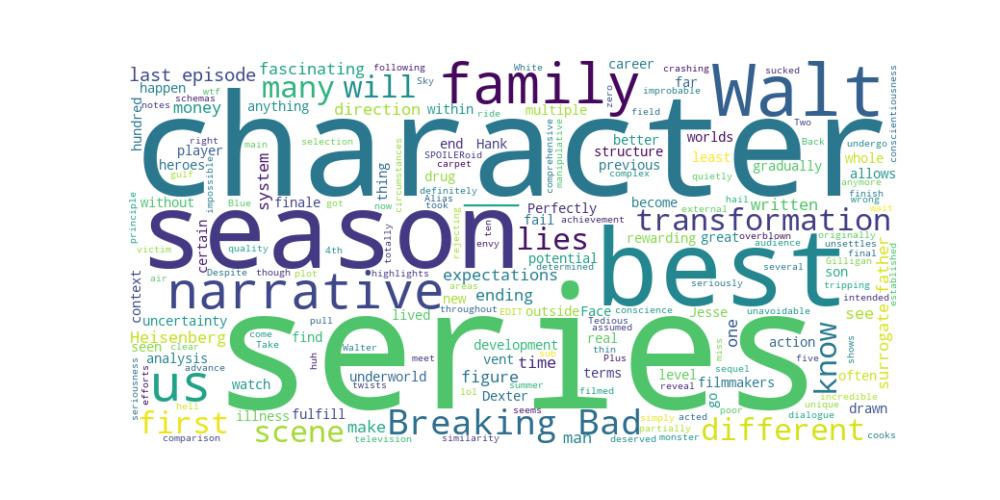
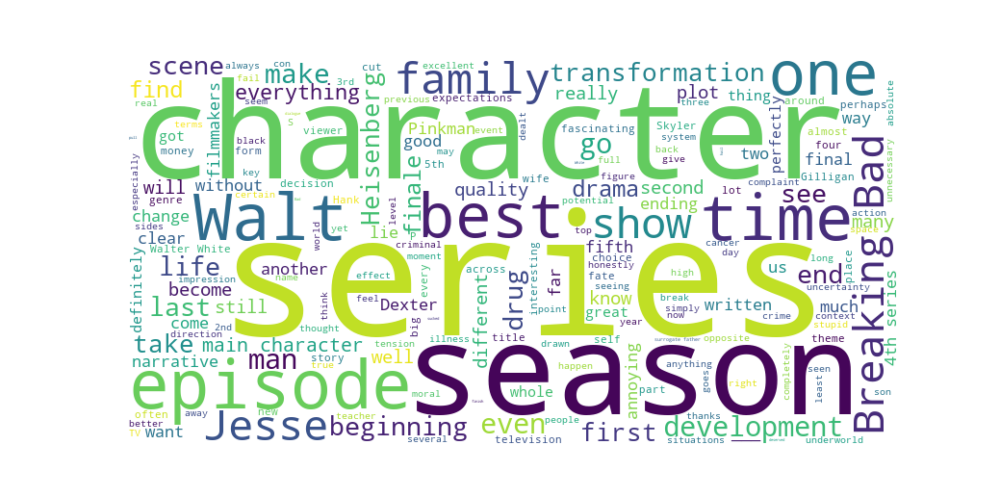
code review, change comments into eng

diff --git a/visualization.py b/visualization.py
@@ -8,9 +8,9 @@ import nltk
 nltk.download("stopwords")
 from nltk.corpus import stopwords
 
-
 def generate_wordcloud(words, filename="wordcloud.png"):
-    """ Vytvoří wordcloud z daného textu nebo seznamu slov """
+    """ Generates a word cloud from the given text or list of words """
+    print("Generating word cloud...")
     text = " ".join(words)
     wordcloud = WordCloud(width=800, height=400, background_color="white").generate(text)
 
@@ -20,65 +20,50 @@ def generate_wordcloud(words, filename="wordcloud.png"):
     plt.savefig(filename)
     plt.show()
 
-
-def display_sentiment_results(sentiment_results):
-    """ Zobrazí tabulku sentimentu recenzí """
-    df_sentiment = pd.DataFrame(sentiment_results, columns=["Review", "Sentiment", "Score"])
-    df_sentiment["Score"] = df_sentiment["Score"].round(2)
-
-    print("\n📊 Sentiment Analysis Table:\n")
-
-    try:
-        from tabulate import tabulate
-        print(tabulate(df_sentiment, headers="keys", tablefmt="github"))
-    except ImportError:
-        print(df_sentiment.to_string(index=False))
-
-
 def analyze_words(reviews):
-    """ Analyzuje slova v recenzích – nejčastější a nejdelší slova """
+    """ Analyzes words in reviews – most common and longest words """
+    print("Analyzing words in reviews...")
     text = " ".join(reviews).lower()
     words = [word.strip(string.punctuation) for word in text.split()]
 
-    # Odstranění stopwords
+    # Remove stopwords
     stop_words = set(stopwords.words("english"))
     words = [word for word in words if word and word not in stop_words]
 
-    # 30 nejčastějších slov
+    # 30 most common words
     most_common_words = [word for word, _ in Counter(words).most_common(30)]
 
-    # 30 nejdelších slov
+    # 30 longest words
     longest_words = sorted(set(words), key=len, reverse=True)[:30]
 
     return most_common_words, longest_words
 
-
-if __name__ == "__main__":
-    test_reviews = [
-        "This movie is absolutely fantastic! I loved every second of it.",
-        "It was an average experience. Nothing special, nothing terrible.",
-        "I really hated this movie. It was a complete waste of time."
-    ]
-
-    # Simulujeme analýzu sentimentu
-    test_sentiments = [
-        (test_reviews[0], "positive", 0.85),
-        (test_reviews[1], "neutral", 0.00),
-        (test_reviews[2], "negative", -0.75)
-    ]
-
-    # Generování wordcloudu pro recenze
-    generate_wordcloud(test_reviews, "test_wordcloud.png")
-
-    # Zobrazení tabulky sentimentu
-    display_sentiment_results(test_sentiments)
-
-    # Analýza nejčastějších a nejdelších slov
-    most_common, longest = analyze_words(test_reviews)
-
-    print("\n📌 30 nejpoužívanějších slov:\n", most_common)
-    print("\n📌 30 nejdelších slov:\n", longest)
-
-    # Generování wordcloudů pro nejčastější a nejdelší slova
-    generate_wordcloud(most_common, "most_common_words.png")
-    generate_wordcloud(longest, "longest_words.png")
+# if __name__ == "__main__":
+#     test_reviews = [
+#         "This movie is absolutely fantastic! I loved every second of it.",
+#         "It was an average experience. Nothing special, nothing terrible.",
+#         "I really hated this movie. It was a complete waste of time."
+#     ]
+#
+#     # Simulate sentiment analysis
+#     test_sentiments = [
+#         (test_reviews[0], "positive", 0.85),
+#         (test_reviews[1], "neutral", 0.00),
+#         (test_reviews[2], "negative", -0.75)
+#     ]
+#
+#     # Generate word cloud for reviews
+#     generate_wordcloud(test_reviews, "test_wordcloud.png")
+#
+#     # Display sentiment table
+#     display_sentiment_results(test_sentiments)
+#
+#     # Analyze most common and longest words
+#     most_common, longest = analyze_words(test_reviews)
+#
+#     #print("\n📌 30 most used words:\n", most_common)
+#     #print("\n📌 30 longest words:\n", longest)
+#
+#     # Generate word clouds for most common and longest words
+#     generate_wordcloud(most_common, "most_common_words.png")
+#     generate_wordcloud(longest, "longest_words.png")

diff --git a/main.py b/main.py
@@ -5,53 +5,52 @@ import visualization as vz
 import saver as sv
 from saver import export_to_pdf
 
-# Konstanty pro výběr režimu (0 = použít soubor, 1 = přeložit API)
-USE_API = 0
+# Constants for mode selection (0 = use file, 1 = translate API)
+USE_API = 1
 
 if __name__ == '__main__':
     url = "https://www.csfd.cz/film/237486-pernikovy-tata/recenze/"
 
-    if USE_API:  # Pokud je API zapnuté, přeložíme nové recenze
-        print("Překládám recenze (API)...")
+    if USE_API:  # If API is enabled, translate new reviews
+        print("Translating reviews (API)...")
         reviews = sc.get_reviews(url)
 
         if reviews:
-            translated_reviews = [tr.translate_text(review) for review in reviews[:5]]
-            sv.save_translated_reviews(translated_reviews)  # Uložíme pro další použití
+            translated_reviews = [tr.translate_text(review) for review in reviews]
+            sv.save_translated_reviews(translated_reviews)  # Save for future use
         else:
-            print("Žádné recenze nebyly nalezeny!")
+            print("No reviews found!")
             exit()
 
-    else:  # Pokud API není zapnuté, použijeme uložené recenze
-        print("Používám přeložené recenze ze souboru...")
+    else:  # If API is not enabled, use saved reviews
+        print("Using translated reviews from file...")
         translated_reviews = sv.load_translated_reviews()
 
         if not translated_reviews:
-            print("❌ Soubor s přeloženými recenzemi neexistuje! Změň USE_API na 1 a spusť znovu.")
+            print("File with translated reviews does not exist! Change USE_API to 1 and run again.")
             exit()
 
-    print("\nStažené, přeložené a analyzované recenze:\n")
+    #print("\nDownloaded, translated, and analyzed reviews:\n")
     sentiment_results = []
     for i, translated_review in enumerate(translated_reviews, 1):
         sentiment, score = sa.analyze_sentiment(translated_review)
         sentiment_results.append((translated_review, sentiment, score))
 
-        print(f"{i}. EN: {translated_review}")
-        print(f"   🔹 Sentiment: {sentiment} (score: {score})\n")
+        #print(f"{i}. EN: {translated_review}")
+        #print(f"   🔹 Sentiment: {sentiment} (score: {score})\n")
 
-    # 📊 Vizuální výstupy
-    vz.display_sentiment_results(sentiment_results)
+    # 📊 Visual outputs
     vz.generate_wordcloud(translated_reviews, "img/reviews_wordcloud.png")
 
-    # 🔍 Analýza slov (nejčastější a nejdelší)
+    # 🔍 Word analysis (most common and longest)
     most_common, longest = vz.analyze_words(translated_reviews)
 
-    print("\n30 nejpoužívanějších slov:\n", most_common)
-    print("\n30 nejdelších slov:\n", longest)
+    #print("\n30 most used words:\n", most_common)
+    #print("\n30 longest words:\n", longest)
 
-    # Generování wordcloudů pro nejpoužívanější a nejdelší slova
+    # Generate word clouds for most used and longest words
     vz.generate_wordcloud(most_common, "img/most_common_words.png")
     vz.generate_wordcloud(longest, "img/longest_words.png")
 
-    # 📄 Export do PDF
-    export_to_pdf(url, sentiment_results, most_common,longest,pdf_filename="report/sentiment_report.pdf")
+    # 📄 Export to PDF
+    export_to_pdf(url, sentiment_results, most_common, longest, pdf_filename="report/sentiment_report.pdf")

diff --git a/saver.py b/saver.py
@@ -6,12 +6,14 @@ TRANSLATED_FILE = "reviews.txt"
 # 📌 Function to save and load reviews
 def save_translated_reviews(translated_reviews):
     """ Saves translated reviews to a file """
+    print("Saving translated reviews to file...")
     with open(TRANSLATED_FILE, "w", encoding="utf-8") as file:
         for review in translated_reviews:
             file.write(review + "\n")
 
 def load_translated_reviews():
     """ Loads translated reviews from a file if it exists """
+    print("Loading translated reviews from file...")
     if os.path.exists(TRANSLATED_FILE):
         with open(TRANSLATED_FILE, "r", encoding="utf-8") as file:
             return [line.strip() for line in file.readlines()]
@@ -32,8 +34,9 @@ class PDF(FPDF):
                 self.cell(col_width, 10, str(item).encode('latin-1', 'replace').decode('latin-1'), border=1, align="L")
             self.ln()
 
-def export_to_pdf(url, sentiment_results, most_common_words, longest_words,pdf_filename="report/sentiment_report.pdf"):
+def export_to_pdf(url, sentiment_results, most_common_words, longest_words, pdf_filename="report/sentiment_report.pdf"):
     """ Exports the sentiment analysis results to a PDF """
+    print("Exporting results to PDF...")
     pdf = PDF()
     pdf.set_auto_page_break(auto=True, margin=15)
     pdf.add_page()
@@ -69,13 +72,11 @@ def export_to_pdf(url, sentiment_results, most_common_words, longest_words,pdf_f
     formatted_words = ", ".join(most_common_words)
 
     pdf.set_font("Arial", "", 10)
-    pdf.multi_cell(0, 7, formatted_words, border=1, align="L")  # Víceřádková buňka
-
+    pdf.multi_cell(0, 7, formatted_words, border=1, align="L")  # Multi-line cell
 
     # 📌 Add word cloud image for most common words
     pdf.ln(10)
     pdf.image("img/most_common_words.png", x=None, y=None, w=150)
-
 
     # 📌 Add longest words in a single cell
     pdf.ln(10)
@@ -86,11 +87,10 @@ def export_to_pdf(url, sentiment_results, most_common_words, longest_words,pdf_f
     pdf.set_font("Arial", "", 10)
     pdf.multi_cell(0, 7, formatted_longest_words, border=1, align="L")
 
-    # 📌 Add word cloud image for most common words
+    # 📌 Add word cloud image for longest words
     pdf.ln(10)
     pdf.image("img/longest_words.png", x=None, y=None, w=150)
 
-
     # 📌 Save the PDF
     pdf.output(pdf_filename)
-    print(f"📄 Report saved as {pdf_filename}")
+    print(f"Report saved as {pdf_filename}")

diff --git a/sentiment_analyzer.py b/sentiment_analyzer.py
@@ -1,15 +1,15 @@
 import nltk
 from nltk.sentiment import SentimentIntensityAnalyzer
 
-# Stáhneme VADER lexikon, pokud není dostupný
+# Download VADER lexicon if not available
 nltk.download('vader_lexicon')
 
-# Inicializace analyzátoru
+# Initialize analyzer
 sia = SentimentIntensityAnalyzer()
 
-
 def analyze_sentiment(text):
-    """ Analyzuje sentiment textu a vrací kategorii a skóre """
+    """ Analyzes the sentiment of the text and returns the category and score """
+    print("Analyzing sentiment...")
     sentiment_score = sia.polarity_scores(text)["compound"]
 
     if sentiment_score > 0.05:
@@ -20,10 +20,9 @@ def analyze_sentiment(text):
         sentiment = "neutral"
 
     return sentiment, sentiment_score
-
-
-if __name__ == "__main__":
-    test_text = "This series is absolutely amazing!"
-    sentiment, score = analyze_sentiment(test_text)
-    print(f"Text: {test_text}")
-    print(f"Sentiment: {sentiment} (score: {score})")
+#
+# if __name__ == "__main__":
+#     test_text = "This series is absolutely amazing!"
+#     sentiment, score = analyze_sentiment(test_text)
+#     #print(f"Text: {test_text}")
+#     #print(f"Sentiment: {sentiment} (score: {score})")

diff --git a/scraper.py b/scraper.py
@@ -2,7 +2,8 @@ import requests
 from bs4 import BeautifulSoup
 
 def get_reviews(url):
-    headers = {"User-Agent": "Mozilla/5.0"}  # Přidáváme User-Agent, aby se zabránilo blokování
+    print("Scraping reviews...")
+    headers = {"User-Agent": "Mozilla/5.0"}  # Adding User-Agent to avoid blocking
     response = requests.get(url, headers=headers)
     soup = BeautifulSoup(response.text, "html.parser")
 
@@ -11,3 +12,10 @@ def get_reviews(url):
         reviews.append(review.text.strip())
 
     return reviews
+
+#testing purposes
+# if __name__ == "__main__":
+#     url = "https://www.csfd.cz/film/237486-pernikovy-tata/recenze/"
+#     reviews = get_reviews(url)
+#     for i, review in enumerate(reviews, 1):
+#         print(f"{i}. {review}")

diff --git a/translator.py b/translator.py
@@ -10,9 +10,10 @@ translator = deepl.Translator(API_KEY)
 
 def translate_text(text, src_lang="CS", dest_lang="EN-GB"):
     try:
+        print("Translating text...")
         result = translator.translate_text(text, source_lang=src_lang, target_lang=dest_lang)
         return result.text
     except Exception as e:
-        print(f"Chyba při překladu: {e}")
+        print(f"Error with translating: {e}")
         return text  # Pokud překlad selže, vrátíme původní text
 

diff --git a/README.md b/README.md
@@ -23,19 +23,8 @@ This project is a **Natural Language Processing (NLP) tool** that **scrapes onli
 
 ---
 
-## 📂 Project Structure
-📁 sentiment_analysis_project
-│── 📄 README.md               # Project documentation
-│── 📂 report/                 # Output reports (PDF)
-│── 📂 img/                    # Word cloud images
-│── 📜 main.py                 # Main script - controls execution
-│── 📜 scraper.py              # Web scraper for reviews
-│── 📜 translator.py           # Translates reviews into English
-│── 📜 sentiment_analyzer.py   # Performs sentiment analysis
-│── 📜 visualization.py        # Generates word clouds & displays data
-│── 📜 saver.py                # Exports data to PDF
-│── 📜 requirements.txt        # Required dependencies     # Required dependencies
-
-
+## Example Report Output
+The tool generates a PDF report with the following structure:
+[Download the PDF report](report/sentiment_report.pdf)
 #### Author: Filip Hajduch
 ###### and ChatGPT
